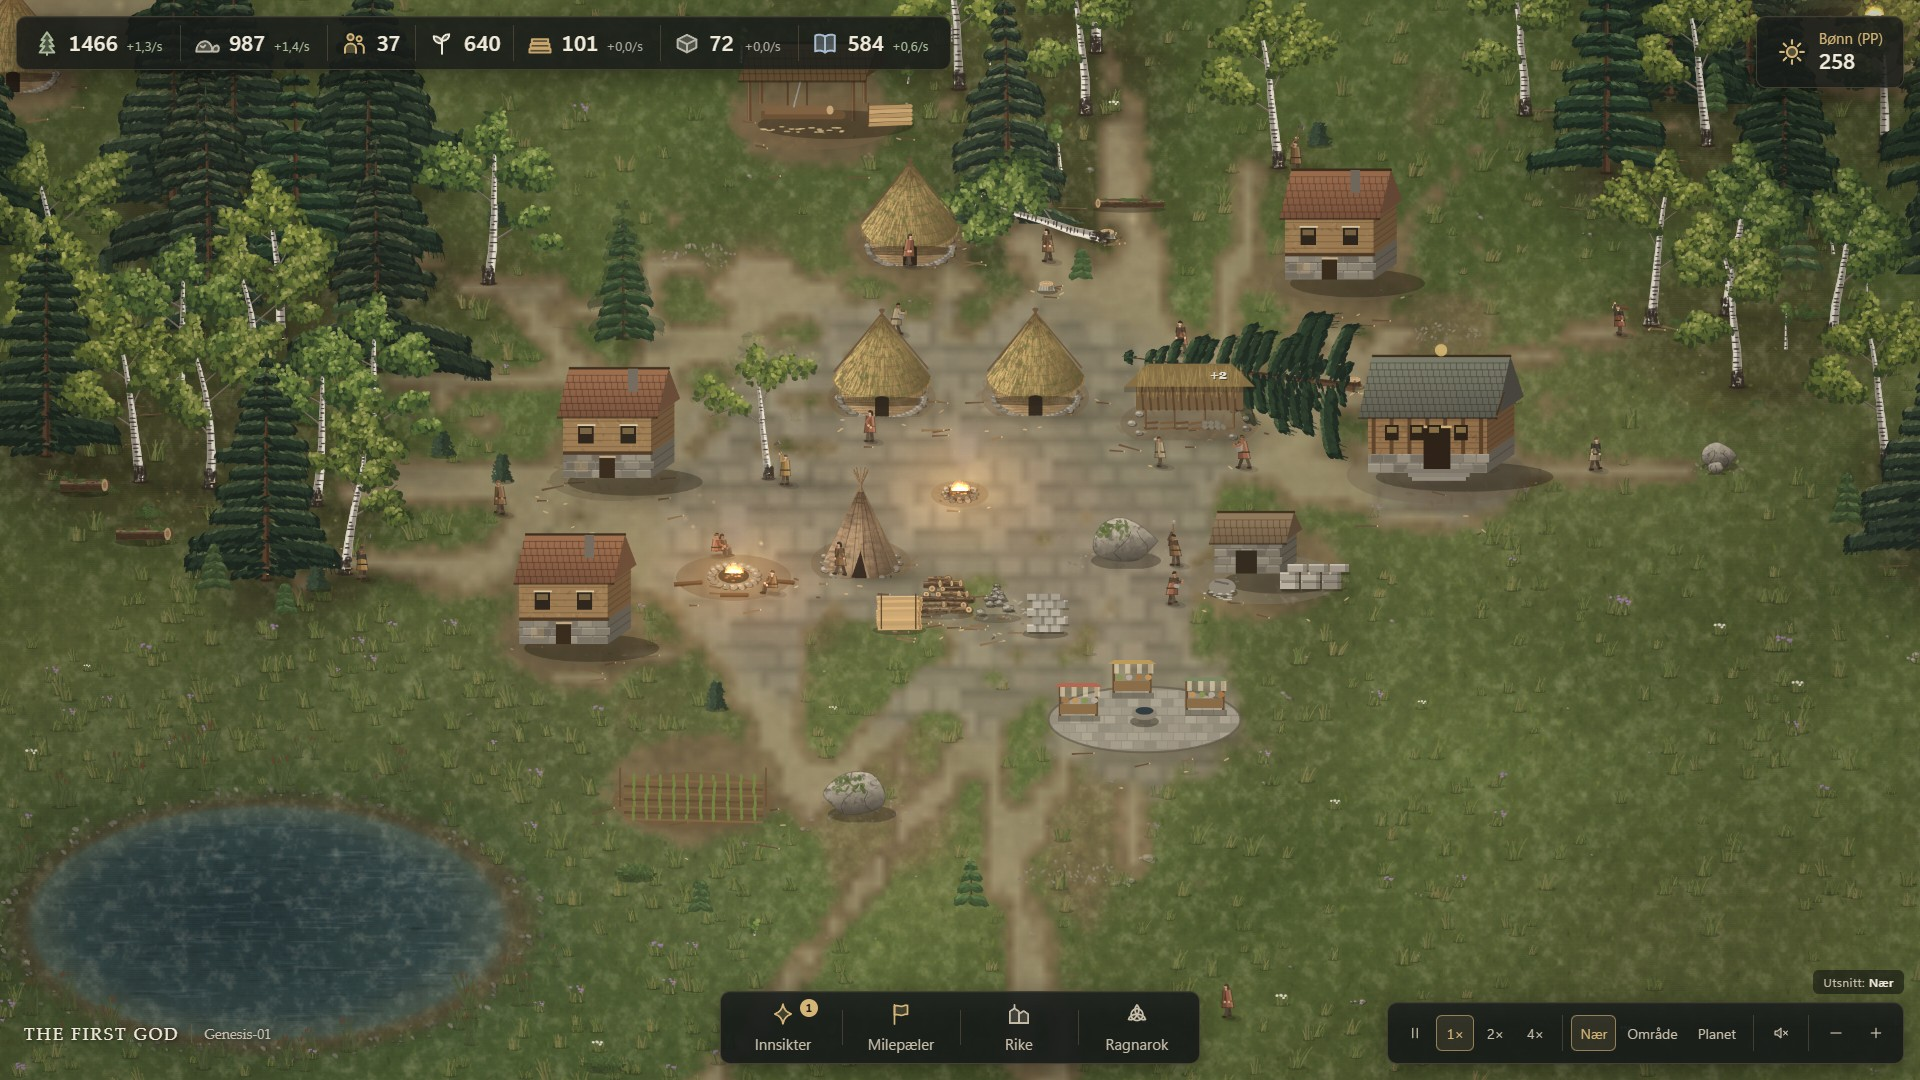
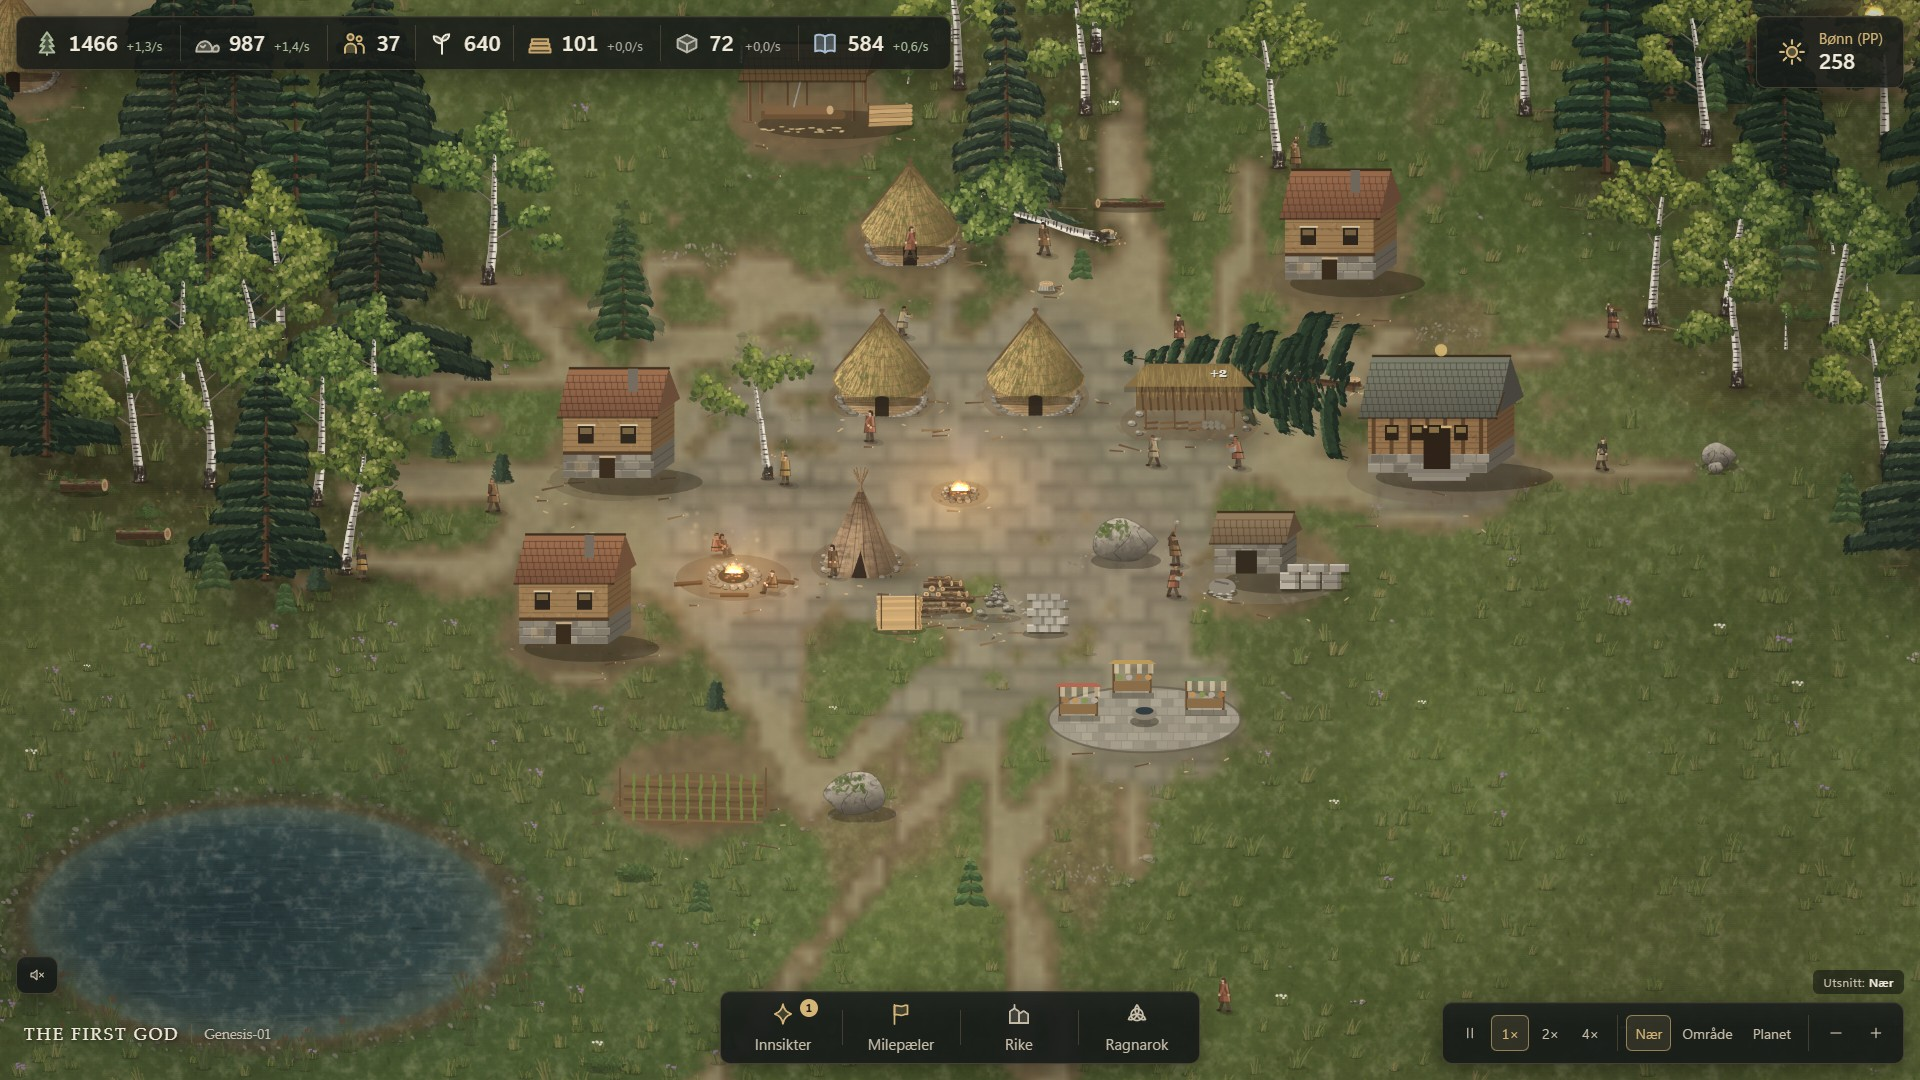
fix(ui,perf): narrow-screen layout, sticky Ragnarok actions, faster ground layer; implementation report and final screenshots
- sound toggle moves to its own panel bottom-left; compact controls under 1400px; no overlap at 1280x720
- Ragnarok dialog actions stay visible while the echo list scrolls
- wear/road/paving layer without per-pixel closures: 80 -> 25 ms in late game (baseline 32 ms)
- small-screen capture scenes (OPUS_01=sizes); all after screenshots recaptured
- docs/opus-01/IMPLEMENTATION_REPORT.md

diff --git a/src/render/renderer.js b/src/render/renderer.js
@@ -293,42 +293,45 @@ export function createRenderer(canvas) {
     const box = cur && prev ? { i0: Math.min(cur.i0, prev.i0), i1: Math.max(cur.i1, prev.i1), j0: Math.min(cur.j0, prev.j0), j1: Math.max(cur.j1, prev.j1) } : (cur || prev);
     R.wearBox = cur;
     if (!box) return;
-    const Wp = cols * WS, px = R.wearImg.data, nz = R.wearNoise;
-    const clampK = (i, j) => (j < 0 ? 0 : j >= rows ? rows - 1 : j) * cols + (i < 0 ? 0 : i >= cols ? cols - 1 : i);
-    const get = (i, j) => { const k = clampK(i, j); return data[k] > R.exposure[k] ? data[k] : R.exposure[k]; };
-    const getWalk = (i, j) => data[clampK(i, j)];
-    const getPave = (i, j) => R.pave[clampK(i, j)];
-    const bil = (f, i, j, u, v) => (f(i, j) * (1 - u) + f(i + 1, j) * u) * (1 - v) + (f(i, j + 1) * (1 - u) + f(i + 1, j + 1) * u) * v;
+    const Wp = cols * WS, px = R.wearImg.data, nz = R.wearNoise, ex = R.exposure, pv = R.pave;
+    // Ytelse: maks(slitasje, eksponering) per celle beregnes én gang; interpolasjonen er skrevet ut uten funksjonskall.
+    const M = R.wearMax || (R.wearMax = new Float32Array(cols * rows));
+    for (let j = box.j0; j <= box.j1; j++) for (let i = box.i0; i <= box.i1; i++) { const k = j * cols + i; M[k] = data[k] > ex[k] ? data[k] : ex[k]; }
     for (let py = box.j0 * WS; py < (box.j1 + 1) * WS; py++) {
-      const fy = (py + 0.5) / WS - 0.5, j = Math.floor(fy), v = fy - j;
+      const fy = (py + 0.5) / WS - 0.5, jf = Math.floor(fy), v = fy - jf;
+      const j0 = jf < 0 ? 0 : jf >= rows ? rows - 1 : jf, j1 = jf + 1 >= rows ? rows - 1 : jf + 1 < 0 ? 0 : jf + 1;
+      const r0 = j0 * cols, r1 = j1 * cols;
       for (let pxx = box.i0 * WS; pxx < (box.i1 + 1) * WS; pxx++) {
-        const fx = (pxx + 0.5) / WS - 0.5, i = Math.floor(fx), u = fx - i;
-        const w = bil(get, i, j, u, v);
-        const n = nz[py * Wp + pxx];
+        const fx = (pxx + 0.5) / WS - 0.5, ifl = Math.floor(fx), u = fx - ifl;
+        const i0 = ifl < 0 ? 0 : ifl >= cols ? cols - 1 : ifl, i1 = ifl + 1 >= cols ? cols - 1 : ifl + 1 < 0 ? 0 : ifl + 1;
+        const a00 = r0 + i0, a10 = r0 + i1, a01 = r1 + i0, a11 = r1 + i1;
+        const w = (M[a00] * (1 - u) + M[a10] * u) * (1 - v) + (M[a01] * (1 - u) + M[a11] * u) * v;
         const o = (py * Wp + pxx) * 4;
+        const n = nz[py * Wp + pxx];
         // Gresset slites først i flekker; ved mye slitasje blir jorda sammenhengende bar.
         let a = smooth(0.26, 0.62, w * 1.12 + (n - 0.5) * 0.7);
         const shade = 0.78 + n * 0.5;
         let r = 112 * shade, g = 94 * shade, b = 68 * shade;
         // Ønskelinjer modnes: det som går mest, blir til en lys grusvei med småstein (historien ligger i bakken).
-        const walk = bil(getWalk, i, j, u, v);
-        const road = smooth(0.62, 0.9, walk + (n - 0.5) * 0.18);
-        if (road > 0) {
-          const grit = n > 0.82 ? 1.18 : n < 0.12 ? 0.82 : 1;
-          r += (150 * grit * (0.9 + n * 0.2) - r) * road; g += (136 * grit * (0.9 + n * 0.2) - g) * road; b += (106 * grit * (0.9 + n * 0.2) - b) * road;
-          a = Math.max(a, road);
+        const walk = (data[a00] * (1 - u) + data[a10] * u) * (1 - v) + (data[a01] * (1 - u) + data[a11] * u) * v;
+        if (walk > 0.5) {
+          const road = smooth(0.62, 0.9, walk + (n - 0.5) * 0.18);
+          if (road > 0) {
+            const grit = (n > 0.82 ? 1.18 : n < 0.12 ? 0.82 : 1) * (0.9 + n * 0.2);
+            r += (150 * grit - r) * road; g += (136 * grit - g) * road; b += (106 * grit - b) * road;
+            if (road > a) a = road;
+          }
         }
-        // Brolagt torg: grå stein i ujevne rader med mørkere fuger.
-        const pave = bil(getPave, i, j, u, v);
+        // Brolagt torg: ujevne heller; hver liten blokk får sin egen valør, fugene er svake og ikke et rutenett.
+        const pave = (pv[a00] * (1 - u) + pv[a10] * u) * (1 - v) + (pv[a01] * (1 - u) + pv[a11] * u) * v;
         if (pave > 0.02) {
-          // Ujevne heller: hver liten blokk får sin egen valør; fugene er svake og ikke et rutenett.
-          const row = Math.floor(py / 3), col = Math.floor((pxx + (row % 2) * 2) / 4);
+          const row = (py / 3) | 0, cshift = (row & 1) * 2, col = ((pxx + cshift) / 4) | 0;
           const hb = (((row * 73856093) ^ (col * 19349663)) >>> 0) % 1000 / 1000;
-          const joint = (py % 3 === 0 && hb < 0.7) || ((pxx + (row % 2) * 2) % 4 === 0 && hb > 0.35);
+          const joint = (py % 3 === 0 && hb < 0.7) || ((pxx + cshift) % 4 === 0 && hb > 0.35);
           const k = smooth(0.15, 0.6, pave + (n - 0.5) * 0.4);
           const tone = (joint ? 0.86 : 1) * (0.84 + hb * 0.18 + n * 0.1);
           r += (140 * tone - r) * k; g += (130 * tone - g) * k; b += (112 * tone - b) * k;
-          a = Math.max(a, k);
+          if (k > a) a = k;
         }
         px[o] = r; px[o + 1] = g; px[o + 2] = b; px[o + 3] = a * 215;
       }

diff --git a/src/ui/style.css b/src/ui/style.css
@@ -194,9 +194,19 @@ button { font: inherit; color: inherit; }
 @keyframes fade-out { to { opacity: 0; transform: translateX(12px); } }
 @keyframes toast { 0% { opacity: 0; transform: translateY(-6px); } 5% { opacity: 1; transform: none; } 85% { opacity: 1; } 100% { opacity: 0; } }
 
+/* Lyd: en liten, egen knapp nede til venstre over navnet — den konkurrerer ikke med fart/zoom. */
+.sound-ctl { position: absolute; left: var(--edge); bottom: calc(var(--edge) + var(--bar-h) + var(--space-2)); padding: 2px; }
+.sound-ctl button { display: grid; place-items: center; width: 36px; height: 32px; border: 0; border-radius: var(--radius-sm); background: transparent; color: var(--gui-text-secondary); cursor: pointer; }
+.sound-ctl button:hover { background: var(--gui-bg-hover); color: var(--gui-text-primary); }
+.sound-ctl .ico { width: 18px; height: 18px; }
+/* Ragnarok-dialogen: knappene blir stående synlige nederst selv når innholdet ruller. */
+.dialog-box .actions { position: sticky; bottom: calc(-1 * var(--space-5)); margin: var(--space-4) calc(-1 * var(--space-5)) calc(-1 * var(--space-5)); padding: var(--space-3) var(--space-5) var(--space-4); background: linear-gradient(to bottom, rgba(23, 27, 25, 0.85), rgba(23, 27, 25, 0.98) 40%); }
+@media (max-height: 820px) { .echo p.w { display: none; } }
+
 /* Mindre skjermer: kompakte etiketter, men samme plasseringer. */
 @media (max-width: 1400px) {
-  .nav-btn { min-width: 92px; padding: var(--space-1) var(--space-3); }
+  .nav-btn { min-width: 84px; padding: var(--space-1) var(--space-3); }
+  .controls button { min-width: 32px; padding: 0 6px; }
   .res { padding: var(--space-1) var(--space-3); }
 }
 @media (max-width: 1100px) {

diff --git a/index.html b/index.html
@@ -64,15 +64,13 @@
         <button type="button" data-view="area" disabled title="Låses opp ved milepælen Sammenhengende bosetting">Område</button>
         <button type="button" data-view="world" hidden title="Planet: den samme verdenen sett fra høyt over kloden (V)">Planet</button>
       </div>
-      <div class="group" role="group" aria-label="Lyd">
-        <button type="button" id="sound-btn" aria-pressed="true" title="Lyd av/på (M)"></button>
-      </div>
       <div class="group" role="group" aria-label="Zoom">
         <button type="button" data-zoom="out" aria-label="Zoom ut" title="Zoom ut" data-icon="minus"></button>
         <button type="button" data-zoom="in" aria-label="Zoom inn" title="Zoom inn" data-icon="plus"></button>
       </div>
     </div>
 
+    <div class="panel sound-ctl"><button type="button" id="sound-btn" aria-pressed="true" title="Lyd av/på (M)"></button></div>
     <div id="scale" class="scale-chip" aria-live="polite" hidden></div>
     <div id="brand"><span class="title">THE FIRST GOD</span><span class="sub">Genesis-01</span></div>
 

diff --git a/docs/opus-01/IMPLEMENTATION_REPORT.md b/docs/opus-01/IMPLEMENTATION_REPORT.md
@@ -1,0 +1,86 @@
+# OPUS-01 — Implementasjonsrapport
+
+Gren: `feature/opus-01-living-world-transformation` (fra `feature/gameplay-07-10-world-expansion`, `8159882`). Ikke slått sammen med `main`. Ingen nye avhengigheter. `References/` finnes ikke i arbeidskopien og er ikke berørt; `package-lock.json` (uvedkommende, usporet) er ikke lagt til.
+
+Tegnforklaring: **Implementert** = i koden; **Testet** = kontrollert med automatisk test eller faktisk nettleserkjøring (står hvilken); **Foreslått** = bare dokumentert.
+
+## 1. Hva som er implementert
+
+| Område | Endring | Filer | Testet |
+|---|---|---|---|
+| **Planet** | Deterministisk planetgeografi; hjemmeregionen som tangentflekk; land plassert i samme retning som ved kartkanten; overflate bakt i Web Worker | `src/sim/planet.js`, `src/render/planetTexture.js`, `src/render/planetWorker.js` | `tests/planet.test.js`; nettleser |
+| **Planetvisning** | WebGL 1-shader (stråle–kule), levende øyeblikksbilde av verdenen, kjent/ukjent land, sol og nattlys, skyer, atmosfære, overlegg med navn/ruter/ekspedisjoner, valg med pekeren | `src/render/globe.js` | Nettleser (skjermbilder, røykprøve), visningsmodell i test |
+| **Kamera og overganger** | Én høydeparameter fra region til planet; eksakt bredde ↔ høyde; sømløs inn- og utgang; glid, dra, klikk; avsløring ved riket og sluttmilepælen; reserve uten WebGL | `src/view/globe.js`, `src/main.js` | Test (projeksjon, overgang), nettleser |
+| **Lagring** | Hele syklusen + meta i `localStorage`, hvert 20. s og ved skjuling; ingen offline-fremgang; versjon, frøkontroll, utfylling av manglende felt | `src/sim/save.js`, `src/main.js` | Test (rundtur gir identisk forløp), nettleser |
+| **Velsignelser** | Fire varige PP-velsignelser, tre nivåer, synlige svar | `src/data/upgrades.js`, `src/sim/{nature,humans,worldmap,economy}.js`, `src/render/renderer.js` | `tests/opus.test.js`; bot kjøper alle |
+| **Høstfest** | Matoverskudd → samling ved ildstedet, dobbel bønn, milepæl | `src/sim/civilization.js`, `src/sim/humans.js`, `src/data/{balance,upgrades}.js` | `tests/opus.test.js` |
+| **Ragnarok-arv** | PrP-tildeling i simuleringen, fem ekko, kjøp i dialogen (avbryt forkaster), minnesteiner | `src/data/prestige.js`, `src/sim/legacy.js`, `src/sim/game.js`, `src/ui/hud.js`, `src/main.js` | `tests/opus.test.js`; nettleser (full flyt) |
+| **Bosettingens soner** | Kjerne, boligklynger, verksteder mot råvaren, åker i utkanten | `src/sim/construction.js`, `src/data/balance.js` | `tests/opus.test.js`; skjermbilder |
+| **Bakken husker** | Grusveier av mye brukte stier; brolagt torg; steinlagte gater i storbyen | `src/render/renderer.js` | Skjermbilder |
+| **Møteplasser** | Folk besøker torg og hall | `src/sim/humans.js` | Indirekte (gjennomspilling, skjermbilder) |
+| **Lyd** | Prosedyrisk vind, fugler, knitring, hammer, planetklang; M og knapp | `src/audio/ambience.js`, `src/main.js`, `index.html` | Nettleser: starter uten feil. **Ikke lyttet til.** |
+| **Grensesnitt** | «Planet»-knapp, skalaetikett, lydknapp nede til venstre, kompakt bunnlinje på smale skjermer, Ragnarok-dialog med ekko og knapper som alltid er synlige | `index.html`, `src/ui/{hud,style,icons,insights}.js/css` | Skjermbilder 1920/1366/1280; GUI-røykprøve |
+| **Rettelser** | Negativ beholdning ved regionale leveranser; zoomgrense etter tilstand; rulling avbrøt egen utgang | `src/sim/regional.js`, `src/main.js` | Gjennomspilling (minimum ≥ 0 for alle ressurser), røykprøve |
+| **Ytelse** | Slitasjelaget (grus/torg) omskrevet uten funksjonskall per piksel | `src/render/renderer.js` | Målt i nettleser (se §4) |
+
+## 2. Spilleffekter
+
+- PP har en bruk fra ~5 min; mat har en bruk fra ~30 min; PrP har en bruk ved hver Ragnarok.
+- Bot-gjennomspilling 80–97 min (sju frø) mot 103–158 min; ingen hull over 8,5 min (før ~21 min). Detaljer: `PLAYTEST_REPORT.md`.
+- Ingen milepæl eller innsikt er fjernet. Alle 36 innsikter kjøpes og alle 16 milepæler nås i en vanlig gjennomspilling (test).
+
+## 3. Visuelle endringer (vurdert mot faktiske skjermbilder)
+
+Før/etter i `docs/opus-01/screenshots/` (`*-before.jpg` fra `8159882`, `*-after.jpg` fra denne grenen; samme scene, samme bot, samme frø).
+
+| Scene | Vurdering |
+|---|---|
+| 01 tidlig bosetting | Lik før/etter (bevisst — åpningen var allerede god). |
+| 02 utviklet landsby | Tettere: hyttene i klynge rundt ildstedet, lageret nær. |
+| 03 første by | Kompakt kjerne, brolagt torg, folk på torget; verksteder samlet mot skogen. Før: jevn ring med stor åpen lysning. |
+| 04 moden by | Tydelig bysentrum med grusveier ut; fortsatt noe stor tråkket flate. |
+| 05 regionalt nettverk | Byen leses som sentrum med veier mot satellittene. |
+| 06 planet | **Før:** 15 rektangulære kort. **Etter:** en klode med hav, kontinenter, fjell, skyer og atmosfære; hjemmet og rutene til utpostene på riktig sted. |
+| 07 utforskning | Kontinentet med navngitte land på ekte geografi, ekspedisjonen som prikk på vei, «?» der den kan dra. |
+| 08 milepæl | Milepælsmeldingen over kontinentet (før: over kortene). |
+| 09 Ragnarok | Dialogen viser tildeling, varig avtrykk og ekko; knappene alltid synlige. |
+| t1–t5 overgang | Samme sted fra 2D-område via region og kontinent til hele planeten (første planetbilde = siste 2D-bilde). |
+| s-1366/1280 | Ingen overlapp i bunnlinjen; dialog og planet lesbare. |
+
+Visual quality gates (GAME_DESIGN §9): 1–4 og 7 vurderes som oppfylt i skjermbildene; 5 (zoom-kontinuitet) er nå oppfylt også på verdensnivå; 6 (stilmessig samsvar) **delvis** — planeten er dempet og malerisk i fargene, men kontinentnivået er mykere/uskarpere enn den detaljerte verdenen, og lundmønsteret kan leses som et repeterende mønster.
+
+## 4. Ytelse (målt)
+
+| Mål | Verdi | Hvor |
+|---|---|---|
+| Planet, hel kloden, inkl. GPU (`gl.finish`) | 4,5 ms/bilde | Nettleserpanel 1024×768 |
+| Planet, kontinent / region | 5,6 / 7,8 ms/bilde | samme |
+| 2D nær / område (rendrer) | 4,4–9,9 / 3,2–7,4 ms/bilde (spenn over tre kjøringer; variasjon fra andre prosesser på maskinen) | Hodeløs Edge 1920×1080 (røykprøve) |
+| 4× fart i hovedløkka | under 16 ms/bilde (bestått) | røykprøve |
+| Slitasjelaget, sent spill | 25 ms (før optimalisering 80 ms; baseline uten grus/torg 32 ms) | Nettleserpanel; kjøres hvert 0,5 s |
+| Øyeblikksbilde for planeten | ~12 ms, hvert 1,2 s når planeten er nær | samme |
+| Planetteksturer | ~5,8 s én gang per side, i Web Worker | Node |
+| Simulering | ~2,5 s for en hel gjennomspilling i Node | `tools/playthrough.mjs` |
+
+Kjent: slitasjelaget gir fortsatt en liten topp hvert 0,5 s i sent spill (eksisterte før; nå mindre).
+
+## 5. Testresultater
+
+- `npm test`: **106/106** (86 eksisterende + 12 planet/lagring + 8 OPUS). To eksisterende tester ble oppdatert fordi oppførselen bevisst endret seg: listen over kjente kravtyper (`ppTotal`, `festivals` lagt til) og milepælsteksten («Verden-oversikten» → «planetvisningen»). Ingen test ble svekket.
+- Hodeløs Edge: **GUI-røykprøve 33/33**, **Rike/planet-røykprøve 27/27** (oppdatert til sammenhengende zoom: rull ut → planet, rull inn → tilbake over hjemmet, Område/Nær/V, Ragnarok fra planeten, 1× = 4×, ytelse), **ingen konsollfeil** i noen av kjøringene (før og etter).
+- Ragnarok-flyten (forhåndsvisning, ekko, avbryt, bekreft, ren ny syklus, minnestein) er kjørt i nettleseren; se `PLAYTEST_REPORT.md` §4.
+
+## 6. Begrensninger
+
+- Planeten er en **visning**, ikke en planetsimulering; fjerne land er fortsatt et rutenett av tidtakere.
+- Hjemmeflekken er et flatt bilde av 2D-verdenen; ingen 3D-bygg på planeten.
+- Ingen WebGL → den gamle kartoversikten (ingen planet).
+- Byggenes sprites er ikke tegnet på nytt.
+- Lyden er ikke vurdert ved lytting.
+- Balansetallene (velsignelser, fest, ekko, PrP) er provisoriske; ingen menneskelig spilltest.
+- PP hoper seg opp når alle velsignelser er på maks.
+- Solsystem/galakse finnes ikke ennå (arkitekturen er beskrevet).
+
+## 7. Commits
+
+Se `git log 8159882..HEAD`. Logiske steg: planet + lagring → spill og verden → lyd/kamera/tester → dokumentasjon og skjermbilder → polering og ytelse.

diff --git a/CHANGELOG.md b/CHANGELOG.md
@@ -138,6 +138,8 @@ Når en utgivelse opprettes, flyttes `Unreleased`-punkter til en datert versjons
 - Regionale leveranser reserverte materialer uten å sjekke beholdningen, så stein kunne bli negativ (−1 ved 30:00 i baseline). Nå bæres bare det som finnes.
 - Zoomgrensen for områdevisning følger tilstanden, ikke bare milepælshendelsen (riktig etter lasting).
 - Rulling i planetvisningen avbrøt ikke lenger utgangen den selv ba om.
+- Smale skjermer (1280–1400 px): bunnmenyen og fart/zoom-linjen overlappet etter at Planet- og lydknappen kom til. Lydknappen står nå for seg selv nede til venstre, og linjen er mer kompakt. Ragnarok-knappene holdes synlige når dialogen ruller.
+- Ytelse: slitasjelaget (stier, grus, torg) tegnes uten funksjonskall per piksel — 80 → 25 ms per oppdatering i sent spill (baseline uten grus/torg: 32 ms). Målt i nettleser.
 
 ### Tests
 - `tests/planet.test.js` (12): deterministisk planet, landskap per land for sju frø, retning lik kartkanten, verden ↔ planet, sømløst kamera, projeksjon, visningsmodell, tekstur, lagring (rundtur, avvisning, utfylling).
